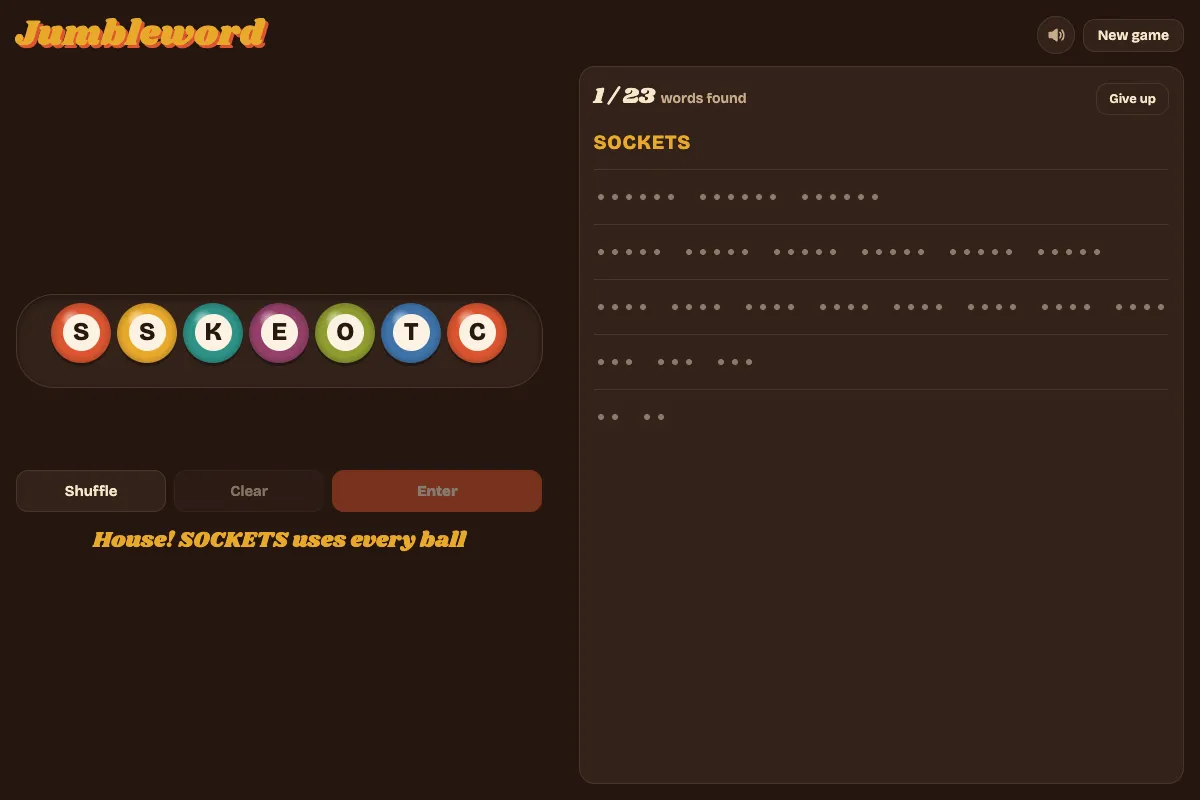
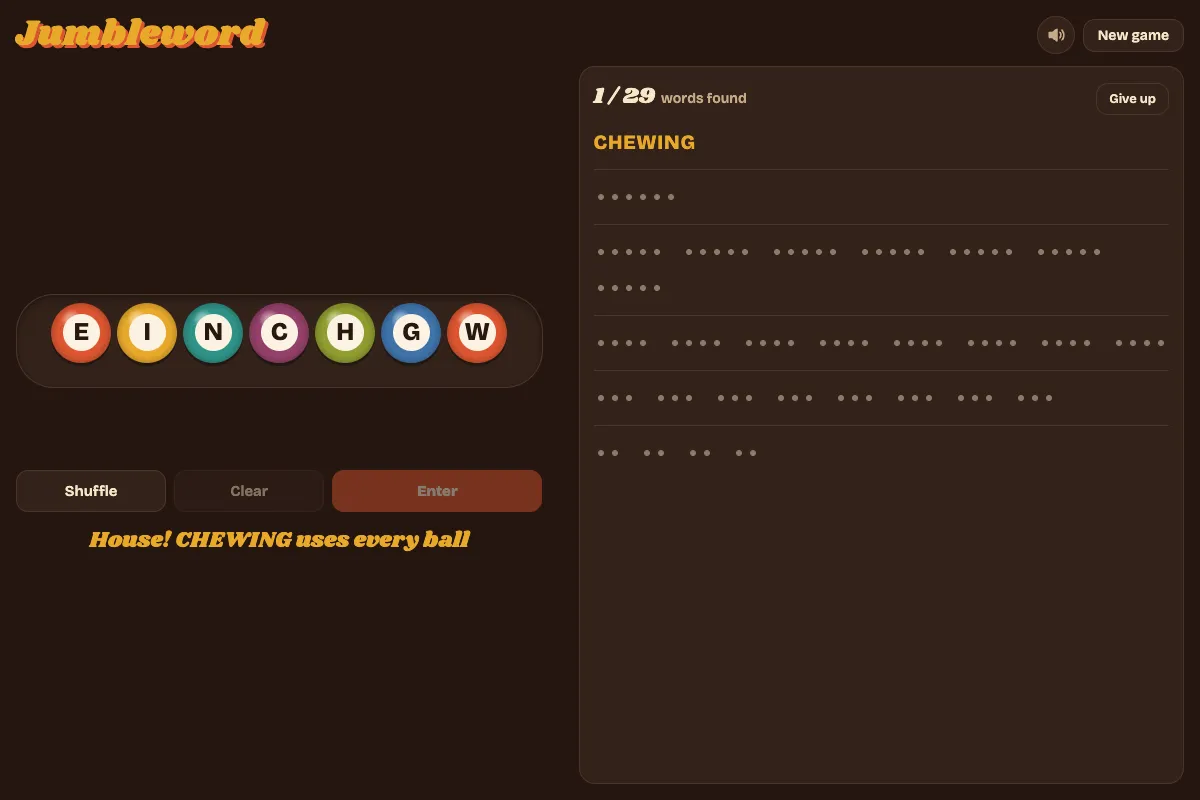
Jumbleword: balls at the bottom for one-handed play on a phone
On a phone held upright the word board now fills the top of the screen
and the play column sits at the bottom upside down, so the balls are
lowest, under the thumb, with the buttons, the word being spelled and the
message above them.

diff --git a/static-assets/toys/jumbleword/index.html b/static-assets/toys/jumbleword/index.html
@@ -141,13 +141,15 @@ h1 { font-family: var(--display); font-weight: 400; font-size: 30px; line-height
 @media (prefers-reduced-motion: reduce) { .w.fresh .ch, .chip.fresh, .tray.bad, .intro[open] { animation: none; } }
 @media (hover: none) { .rules .keys { display: none; } }
 
-/* Phone portrait: the header and the play column stay put and the word board scrolls beneath them, filling the screen. */
+/* Phone portrait, for one-handed play: the word board fills the top of the screen and scrolls, and the play column
+   sits at the bottom, upside down, so that the balls are lowest, under the thumb, with the buttons just above them. */
 @media (max-width: 779px) and (orientation: portrait) {
   html, body { height: 100%; }
-  .wrap { height: 100%; padding-block: 10px 12px; gap: 12px; }
-  .play { gap: 10px; }
+  .wrap { height: 100%; padding-block: 10px 12px; gap: 10px; }
+  header { order: 1; } .board { order: 2; } .play { order: 3; }
+  .play { gap: 8px; }
+  .msg { order: 1; min-height: 20px; } .tray { order: 2; min-height: 48px; } .controls { order: 3; } .rack { order: 4; }
   .board { flex: 1 1 auto; min-height: 0; overflow-y: auto; overscroll-behavior: contain; }
-  .msg { min-height: 20px; }
 }
 
 /* Tablet / desktop landscape: play column on the left, word board on the right, board scrolls on its own. */
